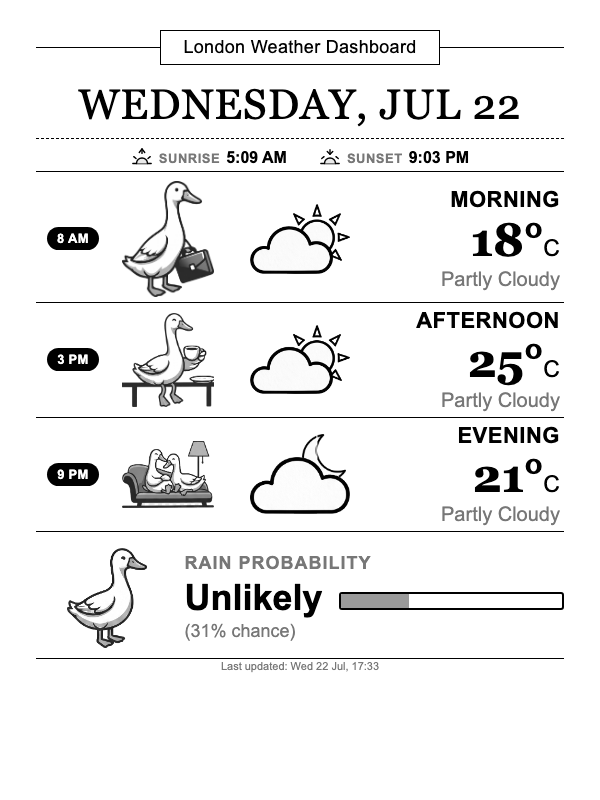
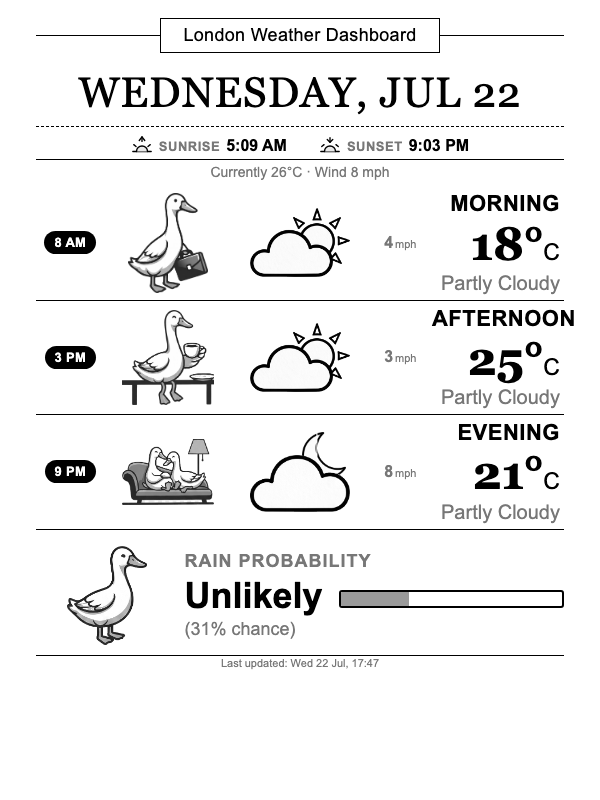
Add per-slot wind, current conditions line, and fix row-height/spacing
- Cap duck images by height (not width) so the tall commute illustration
  no longer makes the morning row bigger than afternoon/evening
- Add a wind readout (mph) to each row, filling the gap between the
  weather icon and temperature
- Add a "Currently Xdeg C - Wind Y mph" line under sunrise/sunset from
  Open-Meteo's current-conditions endpoint
- Tightened top page padding now that rows are more compact
- Re-verified worst-case (rain + umbrella + hourly chart) content still
  fits within the fixed 800px canvas with room to spare

diff --git a/dashboard_template.html b/dashboard_template.html
@@ -14,7 +14,7 @@
   .page {
     width: 600px;
     height: 800px;
-    padding: 30px 36px 10px;
+    padding: 18px 36px 10px;
     display: flex;
     flex-direction: column;
   }
@@ -77,6 +77,12 @@
     border-top: 1px solid #000000;
     margin-bottom: 4px;
   }
+  .current-conditions {
+    text-align: center;
+    font-size: 14px;
+    color: #777777;
+    margin-bottom: 6px;
+  }
 
   .rows { display: flex; flex-direction: column; }
   .row {
@@ -87,7 +93,7 @@
   }
 
   .time-col {
-    width: 14%;
+    width: 13%;
     display: flex;
     justify-content: center;
     align-items: center;
@@ -104,14 +110,14 @@
   }
 
   .duck-col {
-    width: 22%;
+    width: 24%;
     display: flex;
     justify-content: center;
   }
-  .duck-col img { width: 92px; }
+  .duck-col img { max-width: 92px; max-height: 100px; width: auto; height: auto; }
 
   .icon-col {
-    width: 28%;
+    width: 26%;
     display: flex;
     justify-content: center;
     align-items: center;
@@ -136,7 +142,19 @@
     z-index: 0;
   }
 
-  .info-col { width: 36%; text-align: right; padding-right: 4px; }
+  .wind-col {
+    width: 12%;
+    display: flex;
+    justify-content: center;
+    align-items: baseline;
+    gap: 2px;
+    font-size: 16px;
+    font-weight: bold;
+    color: #777777;
+  }
+  .wind-col .wind-unit { font-size: 11px; font-weight: normal; }
+
+  .info-col { width: 25%; text-align: right; padding-right: 4px; }
   .info-label {
     font-weight: bold;
     font-size: 22px;
@@ -245,6 +263,7 @@
     <div class="sun-time">{{SUNSET_ICON}}<span class="sun-time-label">SUNSET</span><span class="sun-time-value">{{SUNSET_TIME}}</span></div>
   </div>
   <div class="sun-times-line"></div>
+  <div class="current-conditions">Currently {{CURRENT_TEMP}}&deg;C &middot; Wind {{CURRENT_WIND}} mph</div>
 
   <div class="rows">
     {{ROWS}}

diff --git a/weather.py b/weather.py
@@ -150,11 +150,12 @@ DUCK_FOR_SLOT = {
     "evening": "evening_relax",
 }
 
-# ---- 1. Fetch hourly weather + sunrise/sunset (no API key needed) ----
+# ---- 1. Fetch hourly + current weather, sunrise/sunset (no API key needed) ----
 url = (
     f"https://api.open-meteo.com/v1/forecast?latitude={LAT}&longitude={LON}"
-    "&hourly=temperature_2m,weathercode,precipitation_probability,precipitation"
-    "&daily=sunrise,sunset&timezone=auto&forecast_days=1"
+    "&hourly=temperature_2m,weathercode,precipitation_probability,precipitation,wind_speed_10m"
+    "&current=temperature_2m,wind_speed_10m"
+    "&daily=sunrise,sunset&timezone=auto&forecast_days=1&wind_speed_unit=mph"
 )
 
 print("Fetching weather...")
@@ -165,8 +166,11 @@ hourly_temp = data["hourly"]["temperature_2m"]
 hourly_code = data["hourly"]["weathercode"]
 hourly_pop = data["hourly"]["precipitation_probability"]
 hourly_precip = data["hourly"]["precipitation"]
+hourly_wind = data["hourly"]["wind_speed_10m"]
 sunrise = format_12h(data["daily"]["sunrise"][0])
 sunset = format_12h(data["daily"]["sunset"][0])
+current_temp = round(data["current"]["temperature_2m"])
+current_wind = round(data["current"]["wind_speed_10m"])
 
 now = datetime.datetime.now()
 
@@ -181,19 +185,20 @@ idx_3pm = hour_index(15)
 idx_9pm = hour_index(21)
 
 slots = [
-    ("MORNING", "8 AM", "morning", hourly_temp[idx_8am], hourly_code[idx_8am], False),
-    ("AFTERNOON", "3 PM", "afternoon", hourly_temp[idx_3pm], hourly_code[idx_3pm], False),
-    ("EVENING", "9 PM", "evening", hourly_temp[idx_9pm], hourly_code[idx_9pm], True),
+    ("MORNING", "8 AM", "morning", hourly_temp[idx_8am], hourly_code[idx_8am], hourly_wind[idx_8am], False),
+    ("AFTERNOON", "3 PM", "afternoon", hourly_temp[idx_3pm], hourly_code[idx_3pm], hourly_wind[idx_3pm], False),
+    ("EVENING", "9 PM", "evening", hourly_temp[idx_9pm], hourly_code[idx_9pm], hourly_wind[idx_9pm], True),
 ]
 
 # ---- 2. Build the row HTML ----
 row_html = []
-for label, time_str, key, temp, code, is_night in slots:
+for label, time_str, key, temp, code, wind, is_night in slots:
     row_html.append(f"""
     <div class="row">
       <div class="time-col"><div class="time-badge">{time_str}</div></div>
       <div class="duck-col"><img src="{duck_data_uri(DUCK_FOR_SLOT[key])}"></div>
       <div class="icon-col">{weather_icon_for(code, is_night)}</div>
+      <div class="wind-col">{round(wind)} <span class="wind-unit">mph</span></div>
       <div class="info-col">
         <div class="info-label">{label}</div>
         <div class="info-temp"><span class="num">{round(temp)}</span><span class="deg">&deg;</span><span class="unit">C</span></div>
@@ -232,6 +237,8 @@ html = (
     .replace("{{SUNRISE_TIME}}", sunrise)
     .replace("{{SUNSET_ICON}}", icon_sunset())
     .replace("{{SUNSET_TIME}}", sunset)
+    .replace("{{CURRENT_TEMP}}", str(current_temp))
+    .replace("{{CURRENT_WIND}}", str(current_wind))
     .replace("{{ROWS}}", "".join(row_html))
     .replace("{{RAIN_DUCK}}", f'<img src="{duck_data_uri(rain_duck)}">')
     .replace("{{RAIN_VALUE}}", rain_value)